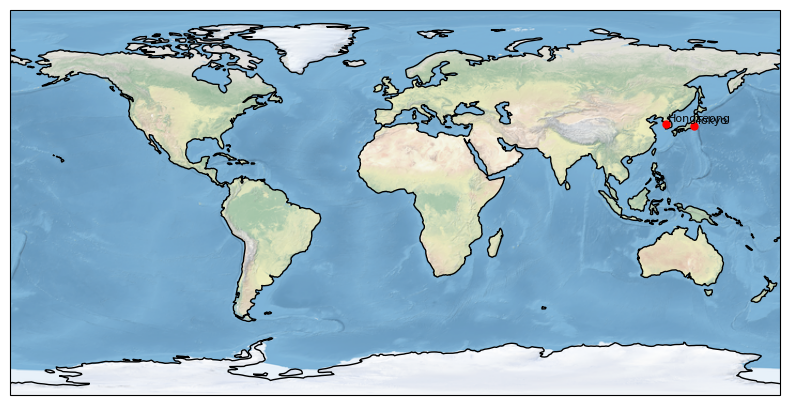
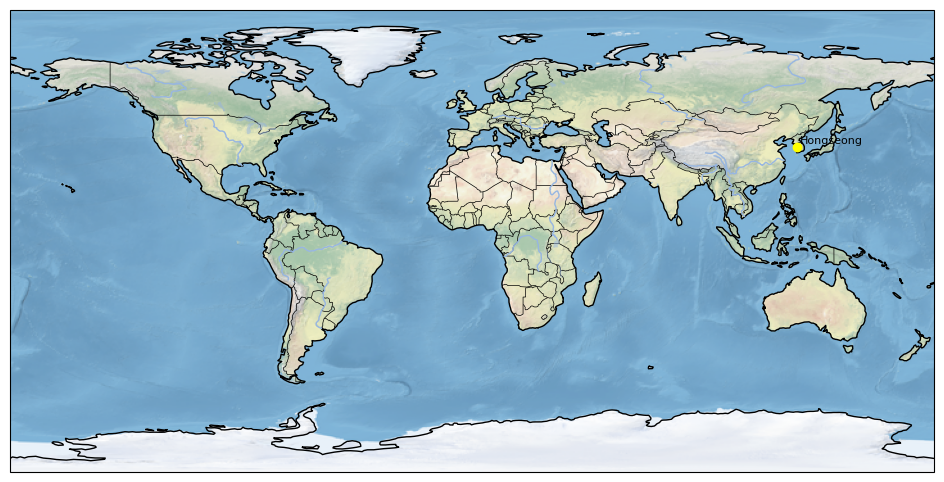
first commit

diff --git a/logic.py b/logic.py
@@ -4,49 +4,49 @@ import matplotlib
 matplotlib.use('Agg')
 import matplotlib.pyplot as plt
 import cartopy.crs as ccrs
+import cartopy.feature as cfeature
 
 
 class DB_Map():
     def __init__(self, database):
         self.database = database
     
+
     def create_user_table(self):
         conn = sqlite3.connect(self.database)
         with conn:
             conn.execute('''CREATE TABLE IF NOT EXISTS users_cities (
                                 user_id INTEGER,
                                 city_id TEXT,
+                                marker_color TEXT DEFAULT 'red',
                                 FOREIGN KEY(city_id) REFERENCES cities(id)
                             )''')
             conn.commit()
 
-    def add_city(self,user_id, city_name ):
+    def add_city(self, user_id, city_name, color="red"):
         conn = sqlite3.connect(self.database)
         with conn:
             cursor = conn.cursor()
             cursor.execute("SELECT id FROM cities WHERE city=?", (city_name,))
             city_data = cursor.fetchone()
             if city_data:
-                city_id = city_data[0]  
-                conn.execute('INSERT INTO users_cities VALUES (?, ?)', (user_id, city_id))
+                city_id = city_data[0]
+                conn.execute('INSERT INTO users_cities (user_id, city_id, marker_color) VALUES (?, ?, ?)',
+                             (user_id, city_id, color))
                 conn.commit()
                 return 1
             else:
                 return 0
 
-            
     def select_cities(self, user_id):
         conn = sqlite3.connect(self.database)
         with conn:
             cursor = conn.cursor()
-            cursor.execute('''SELECT cities.city 
+            cursor.execute('''SELECT cities.city, users_cities.marker_color
                             FROM users_cities  
                             JOIN cities ON users_cities.city_id = cities.id
                             WHERE users_cities.user_id = ?''', (user_id,))
-
-            cities = [row[0] for row in cursor.fetchall()]
-            return cities
-
+            return cursor.fetchall()  # [(city, color), (city, color), ...]
 
     def get_coordinates(self, city_name):
         conn = sqlite3.connect(self.database)
@@ -58,35 +58,41 @@ class DB_Map():
             coordinates = cursor.fetchone()
             return coordinates
 
-    def create_grapf(self, path, cities):
+    def create_grapf(self, path, cities_with_colors):
+        """
+        cities_with_colors — список кортежей [(city, color), ...]
+        """
         coordinates = []
-        for city in cities:
+        for city, color in cities_with_colors:
             coords = self.get_coordinates(city)
             if coords:
-                coordinates.append((city, coords[0], coords[1]))
+                coordinates.append((city, coords[0], coords[1], color))
 
         if not coordinates:
             return None
 
-        fig = plt.figure(figsize=(10, 5))
+        fig = plt.figure(figsize=(12, 6))
         ax = plt.axes(projection=ccrs.PlateCarree())
+        
+        # Фон и географические объекты
         ax.stock_img()
         ax.coastlines()
+        ax.add_feature(cfeature.BORDERS, linewidth=0.5)  # границы стран
+        ax.add_feature(cfeature.LAKES, alpha=0.5)       # озёра
+        ax.add_feature(cfeature.RIVERS)                 # реки
 
-        for city, lat, lng in coordinates:
-            ax.plot(lng, lat, 'ro', markersize=5, transform=ccrs.PlateCarree())
+        for city, lat, lng, color in coordinates:
+            ax.plot(lng, lat, marker='o', color=color, markersize=6, transform=ccrs.PlateCarree())
             ax.text(lng + 1, lat + 1, city, fontsize=8, transform=ccrs.PlateCarree())
 
         plt.savefig(path, bbox_inches='tight')
         plt.close()
         return path
 
-        
     def draw_distance(self, city1, city2):
         pass
 
 
-if __name__=="__main__":
-    
+if __name__ == "__main__":
     m = DB_Map(DATABASE)
     m.create_user_table()

diff --git a/bot.py b/bot.py
@@ -3,6 +3,7 @@ from config import *
 from logic import *
 
 bot = telebot.TeleBot(TOKEN)
+manager = DB_Map(DATABASE)
 
 @bot.message_handler(commands=['start'])
 def handle_start(message):
@@ -12,46 +13,59 @@ def handle_start(message):
 def handle_help(message):
     bot.send_message(message.chat.id, """
 Доступные команды:
-/start - начать работу с ботом и получить приветственное сообщение.
-/help - получить список доступных команд.
-/show_city <city_name> - отобразить указанный город на карте.
-/remember_city <city_name> - сохранить город в список избранных.
-/show_my_cities - показать все сохраненные города.
+/start - приветствие!
+/help - список команд.
+/show_city <city_name> [цвет] - показать город на карте.
+/remember_city <city_name> [цвет] - сохранить город с указанным цветом.
+/show_my_cities - показать все твои сохранённые города.
+Доступные цвета: red, blue, green, yellow, orange, purple
 """)
-
 
 @bot.message_handler(commands=['show_city'])
 def handle_show_city(message):
-    city_name = message.text.split()[-1]
+    parts = message.text.split()
+    if len(parts) < 2:
+        bot.send_message(message.chat.id, "Используй: /show_city <название> [цвет]")
+        return
+    
+    city_name = parts[1]
+    color = parts[2] if len(parts) > 2 else "red"
+
     path = f"city_{message.chat.id}.png"
-    if manager.create_grapf(path, [city_name]):
+    result = manager.create_grapf(path, [(city_name, color)])
+    if result:
         with open(path, 'rb') as photo:
             bot.send_photo(message.chat.id, photo)
     else:
         bot.send_message(message.chat.id, "Такого города нет в базе.")
 
-
 @bot.message_handler(commands=['remember_city'])
 def handle_remember_city(message):
+    parts = message.text.split()
+    if len(parts) < 2:
+        bot.send_message(message.chat.id, "Используй: /remember_city <название> [цвет]")
+        return
+    
     user_id = message.chat.id
-    city_name = message.text.split()[-1]
-    if manager.add_city(user_id, city_name):
-        bot.send_message(message.chat.id, f'Город {city_name} успешно сохранен!')
+    city_name = parts[1]
+    color = parts[2] if len(parts) > 2 else "red"
+
+    if manager.add_city(user_id, city_name, color):
+        bot.send_message(message.chat.id, f'Город {city_name} сохранён с цветом {color}!')
     else:
         bot.send_message(message.chat.id, 'Такого города я не знаю. Убедись, что он написан на английском!')
 
 @bot.message_handler(commands=['show_my_cities'])
 def handle_show_visited_cities(message):
-    cities = manager.select_cities(message.chat.id)
-    if not cities:
+    cities_with_colors = manager.select_cities(message.chat.id)
+    if not cities_with_colors:
         bot.send_message(message.chat.id, "У тебя пока нет сохранённых городов.")
         return
+
     path = f"cities_{message.chat.id}.png"
-    manager.create_grapf(path, cities)
+    manager.create_grapf(path, cities_with_colors)
     with open(path, 'rb') as photo:
         bot.send_photo(message.chat.id, photo)
 
-
-if __name__=="__main__":
-    manager = DB_Map(DATABASE)
+if __name__ == "__main__":
     bot.polling()

diff --git a/config.py b/config.py
@@ -1,2 +1,2 @@
 DATABASE = 'database.db'
-TOKEN = '8357782355:AAHa5BJcAMsrhRtrLBR9mwbBRQJciQ2IwJQ'
+TOKEN = 'your_telegram_bot_token'
